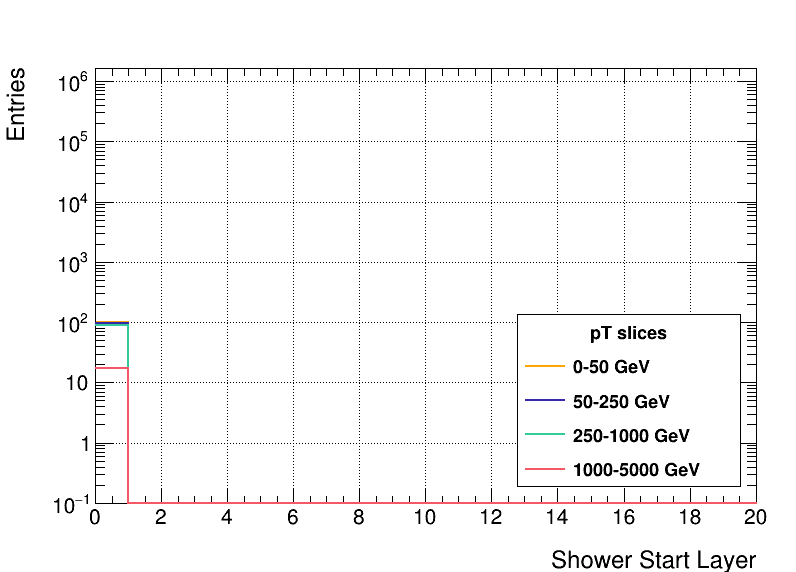
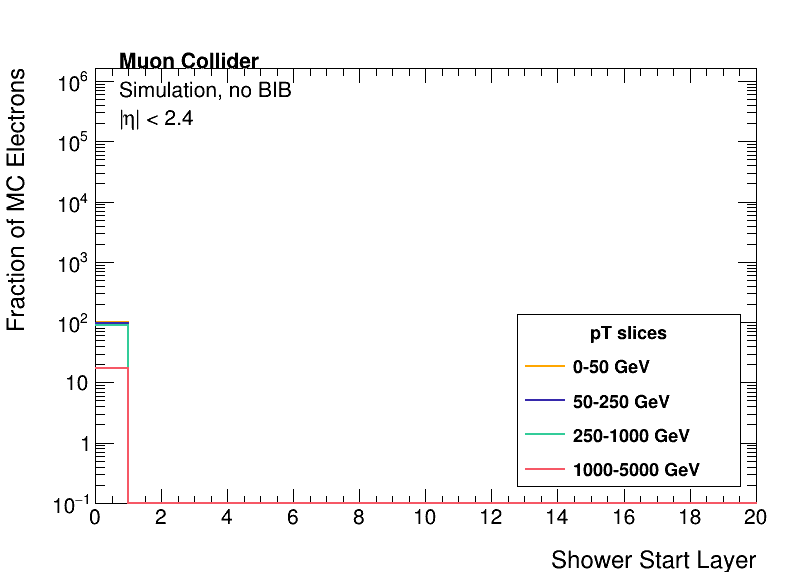
debugging MAIA format

Changed region(s): [[0.1508, 0.0892, 0.3618, 0.2378], [0.0, 0.1189, 0.0302, 0.5944]]

diff --git a/plotHelper.py b/plotHelper.py
@@ -73,7 +73,7 @@ def colorHists(hists):
 
 def plotHistograms(h_map, save_name, xlabel="", ylabel="", interactive=False, logy=False, atltext="", with_bib=False):
     can = ROOT.TCanvas("can", "can", 800, 600)
-    can.SetGrid(1, 1)  # Add grid
+    #can.SetGrid(1, 1)  # Add grid
     can.SetLeftMargin(0.12)
     can.SetBottomMargin(0.12)
     can.SetTopMargin(0.12)  # Increase top margin for header text
@@ -123,21 +123,28 @@ def plotHistograms(h_map, save_name, xlabel="", ylabel="", interactive=False, lo
         clean_label = k.replace("electronGun_pT_", "").replace("_", "-") + " GeV"
         leg.AddEntry(h_map[k], clean_label, "l")
     leg.Draw()
-
-
-    if interactive: 
-        input("Press Enter to continue...")  # Updated for Python 3
-
-    # Handle old atltext parameter if needed
     if atltext != "":
         text = ROOT.TLatex()
         text.SetNDC()
         text.SetTextSize(0.04)
         if isinstance(atltext, list):
-            for i, t in enumerate(atltext):
-                text.DrawLatex(0.2, 0.85-0.07*i, t)
+            # First line (Muon Collider) - top left, bold
+            text.SetTextFont(62)  # Bold font
+            text.DrawLatex(0.15, 0.88, atltext[0])  # "Muon Collider"
+            text.SetTextFont(42)  # Regular font
+            text.DrawLatex(0.15, 0.83, atltext[1])  # "Simulation, no BIB" - moved down
+        
+        # Third line (|eta| < 2.4) - under Simulation text
+            if len(atltext) > 2:
+                text.DrawLatex(0.15, 0.78, atltext[2])  # "|eta| < 2.4" - moved to left side
+        
+        # Last item (MAIA Detector Concept) - top right
+            if len(atltext) > 3:
+                text.DrawLatex(0.30, 0.88, atltext[-1])  # Keep this at the top right
         else:
-            text.DrawLatex(0.2, 0.85, atltext)
+            text.DrawLatex(0.15, 0.85, atltext)
+    if interactive: 
+        input("Press Enter to continue...")  # Updated for Python 3
 
     ROOT.gStyle.SetOptStat(0)
     can.SaveAs(save_name)

diff --git a/electronShowerStudies2.py b/electronShowerStudies2.py
@@ -543,7 +543,7 @@ for s in longitudinal_profile:
 
 print("Creating plots...")
 
-# Plot cluster histograms
+# Plot custer histograms
 cluster_hists_nhits = {}
 cluster_hists_r = {}
 
@@ -568,8 +568,17 @@ for param in ["shower_start_layer", "max_cell_energy", "profile_discrepancy", "c
 
     if lcelectronid_hists[param]:
         if param == "shower_start_layer":
-            plotHelper.plotHistograms(lcelectronid_hists[param], f"plots/lcelectronid_{param}.png",
-                                    "Shower Start Layer", "Entries", False, True, "", False)
+            plotHelper.plotHistograms( 
+                lcelectronid_hists[param],
+                f"plots/lcelectronid_{param}.png",
+                "Shower Start Layer",
+                "Fraction of MC Electrons",
+                False,
+                True,
+                ["Muon Collider", "Simulation, no BIB", "|#eta| < 2.4"],
+                False,
+            )   
+
         else:
             plotHistogramsSimple(lcelectronid_hists[param], f"plots/lcelectronid_{param}.png",
                           param.replace("_", " ").title(), "Entries")
